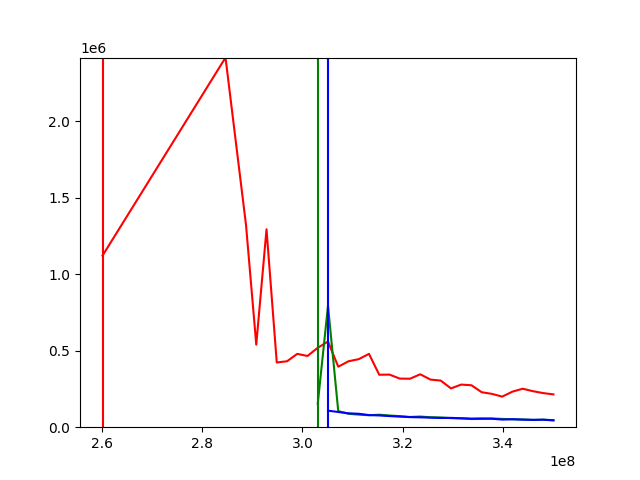
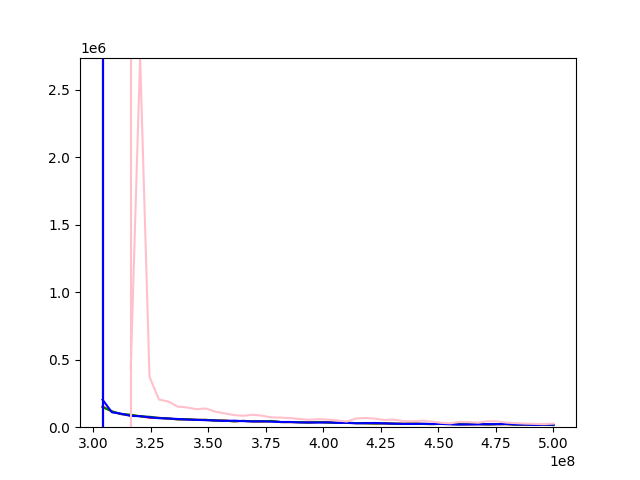
save

diff --git a/src/runtime.cpp b/src/runtime.cpp
@@ -7,10 +7,10 @@ double memory_score(size_t working_memory, size_t max_memory, double garbage_rat
   }
   size_t extra_memory = max_memory - working_memory;
   double gc_tick_per_tick = garbage_rate * gc_time;
+  //std::cout << extra_memory << ", " << gc_tick_per_tick << std::endl;
   double ret;
   if (hc.opt == OptimizeFor::throughput) {
     double tmp = extra_memory + gc_tick_per_tick;
-    //std::cout << extra_memory << ", " << gc_tick_per_tick << std::endl;
     ret = (tmp * tmp) / gc_tick_per_tick;
   } else {
     assert(hc.opt == OptimizeFor::time);

diff --git a/src/main.cpp b/src/main.cpp
@@ -563,8 +563,8 @@ struct ParetoCurveResult {
 NLOHMANN_DEFINE_TYPE_NON_INTRUSIVE(ParetoCurveResult, points)
 
 void pareto_curve(const std::string& where) {
-  size_t start = 1e8;
-  size_t end = 10e8;
+  size_t start = 3e8;
+  size_t end = 5e8;
   size_t sample = 50;
   assert(sample >= 2);
   ParetoCurveResult pcr;

diff --git a/python/plot.py b/python/plot.py
@@ -42,7 +42,7 @@ def draw_simulated_single_point(data):
         bottom.add(max_memory[i])
     plt.savefig("plot.png")
 
-color = ["red", "green", "blue"]
+color = ["red", "green", "blue", "pink"]
 
 def draw_simulated_pareto_curve(data):
     class ControllerData:
